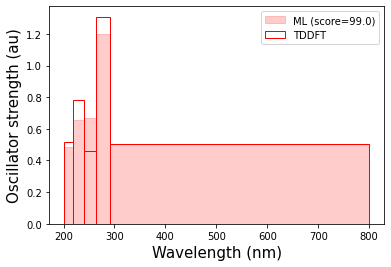
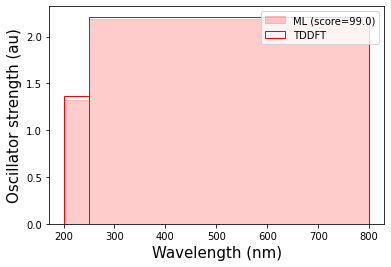
rr: changes to bin_spectra and test_006

diff --git a/example_scripts/test_006/generate_matrices/inp.py b/example_scripts/test_006/generate_matrices/inp.py
@@ -19,7 +19,7 @@ lamd=1e-4              # Regularization strength, lambda
 # Binning
 ########
 N_train=100 # N_train must be defined before binning part
-spec_den=5.0
+spec_den=2.0
 N_state=50
 
 ########
@@ -31,7 +31,7 @@ read_X=True            # If true, descriptors will be loaded from 'file_X', if f
 file_X='FCHL_GAFF_MD_DKI.npy'
 
 read_P=False            # If true, binned properties will be loaded from 'file_P', if false will be calculated and stored in this file
-file_P='CAMB3LYP_631Gs_5.0spec_den_DKI.npy'
+file_P='CAMB3LYP_631Gs_2.0spec_den_DKI.npy'
 
 # Shuffling
 load_indices=True
